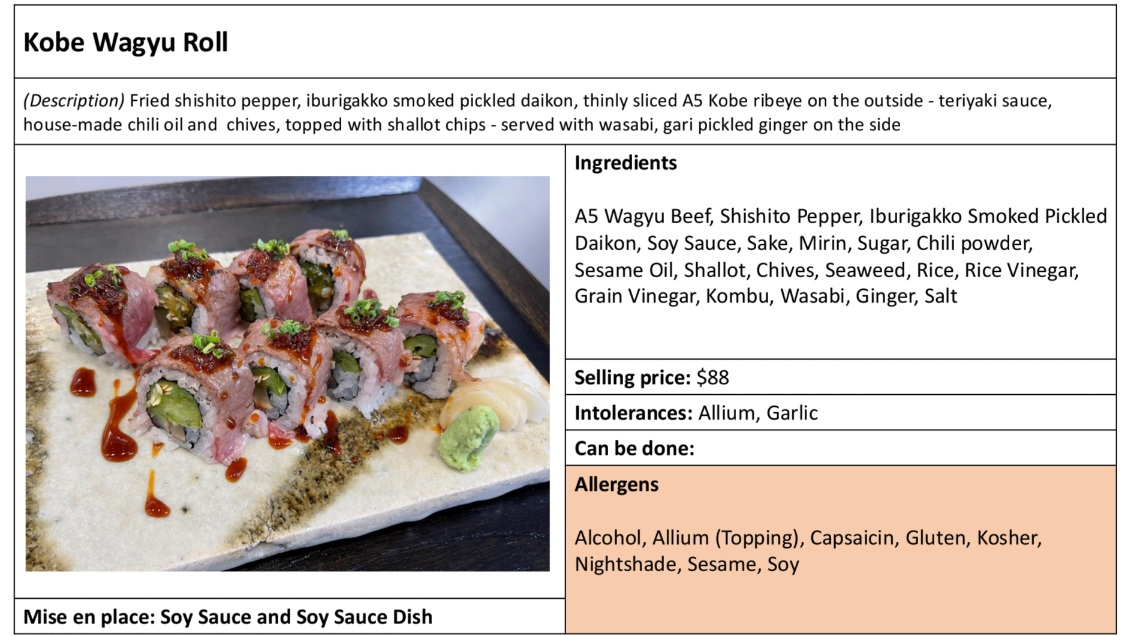
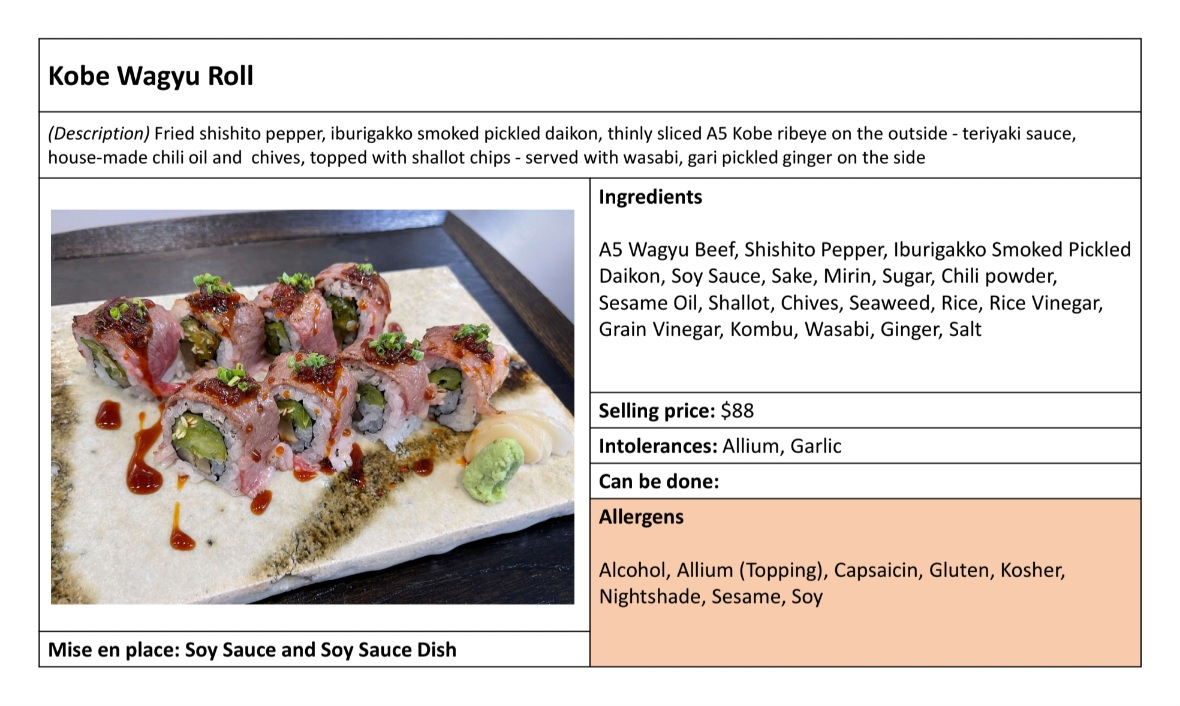
update pic: wagyu roll

diff --git a/app/manager/page.jsx b/app/manager/page.jsx
@@ -3266,7 +3266,7 @@ export default function ManagerDinnerPage() {
           <div className='modal-content'>
           
           <div>
-            <img src='wagyu-roll.jpg' />
+            <img src={`wagyu-roll.jpg?v={Date.now()}`} />
           </div>
           <div className='modal-text'>
                            

diff --git a/app/page.jsx b/app/page.jsx
@@ -3401,7 +3401,7 @@ appetizers, seasonal plates, and dessert.
           <div className='modal-content'>
           
           <div>
-            <img src='wagyu-roll.jpg' />
+            <img src={`wagyu-roll.jpg?v={Date.now()}`} />
           </div>
           <div className='modal-text'>
                            
